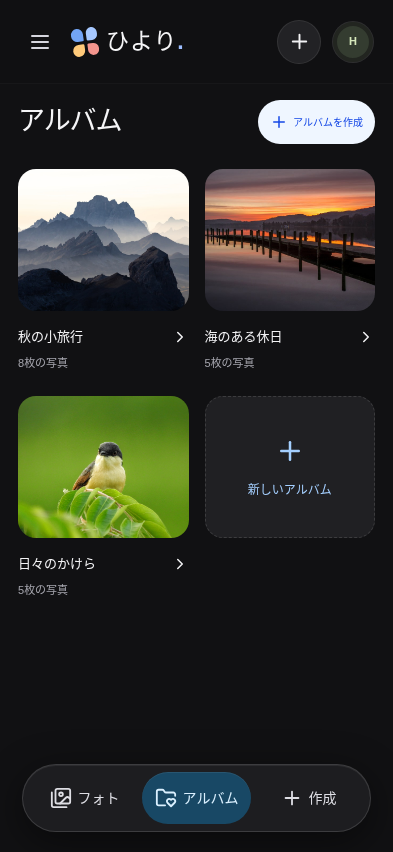
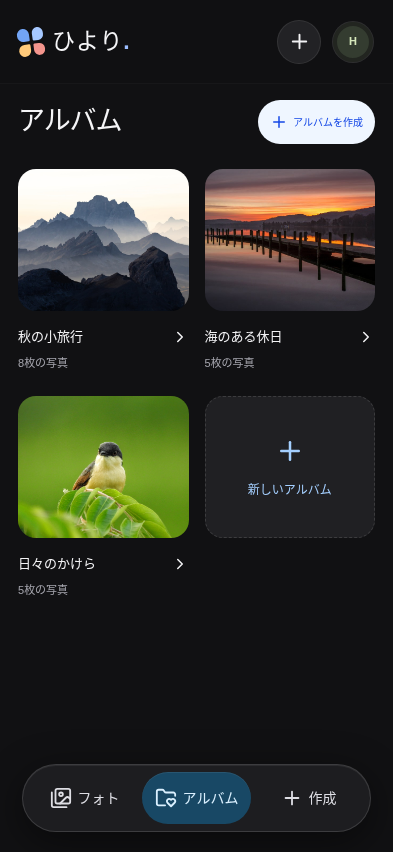
style: remove sidebar from the mobile dark preview

Changed region(s): [[0.0305, 0.0305, 0.458, 0.0915]]

diff --git a/apps/frontend/src/App.tsx b/apps/frontend/src/App.tsx
@@ -724,15 +724,17 @@ function PhotoApp({
             </span>
           </div>
         )}
-        <button
-          className="mobile-toggle"
-          aria-label="メニュー"
-          aria-expanded={mobileMenu}
-          aria-controls="library-menu"
-          onClick={() => setMobileMenu(!mobileMenu)}
-        >
-          <Menu />
-        </button>
+        {!designPreview && (
+          <button
+            className="mobile-toggle"
+            aria-label="メニュー"
+            aria-expanded={mobileMenu}
+            aria-controls="library-menu"
+            onClick={() => setMobileMenu(!mobileMenu)}
+          >
+            <Menu />
+          </button>
+        )}
         <NavLink to="/" className="brand">
           <span className="brand-icon">
             <span />
@@ -772,65 +774,71 @@ function PhotoApp({
           </button>
         </div>
       </header>
-      {mobileMenu && (
+      {!designPreview && mobileMenu && (
         <button
           className="mobile-menu-backdrop"
           aria-label="メニューを閉じる"
           onClick={() => setMobileMenu(false)}
         />
       )}
-      <aside
-        id="library-menu"
-        className={`sidebar ${mobileMenu ? 'mobile-open' : ''}`}
-      >
-        <Button className="upload-button" onClick={() => setUpload(true)}>
-          <Plus size={22} />
-          写真を追加
-        </Button>
-        <nav>
-          {navigation.map(({ to, label, icon: Icon }) => (
+      {!designPreview && (
+        <aside
+          id="library-menu"
+          className={`sidebar ${mobileMenu ? 'mobile-open' : ''}`}
+        >
+          <Button className="upload-button" onClick={() => setUpload(true)}>
+            <Plus size={22} />
+            写真を追加
+          </Button>
+          <nav>
+            {navigation.map(({ to, label, icon: Icon }) => (
+              <NavLink
+                key={to}
+                to={to}
+                end
+                className={({ isActive }) =>
+                  `nav-link ${isActive ? 'active' : ''}`
+                }
+              >
+                <Icon size={21} />
+                <span>{label}</span>
+                {to === '/' && (
+                  <span className="nav-count">{active.length}</span>
+                )}
+              </NavLink>
+            ))}
+            <div className="nav-separator" />
             <NavLink
-              key={to}
-              to={to}
-              end
+              to="/trash"
               className={({ isActive }) =>
                 `nav-link ${isActive ? 'active' : ''}`
               }
             >
-              <Icon size={21} />
-              <span>{label}</span>
-              {to === '/' && <span className="nav-count">{active.length}</span>}
+              <Trash2 size={21} />
+              <span>ゴミ箱</span>
             </NavLink>
-          ))}
-          <div className="nav-separator" />
-          <NavLink
-            to="/trash"
-            className={({ isActive }) => `nav-link ${isActive ? 'active' : ''}`}
-          >
-            <Trash2 size={21} />
-            <span>ゴミ箱</span>
-          </NavLink>
-        </nav>
-        <div className="sidebar-bottom">
-          <div className="space-card">
-            <div className="space-icon">
-              <Cloud size={21} />
+          </nav>
+          <div className="sidebar-bottom">
+            <div className="space-card">
+              <div className="space-icon">
+                <Cloud size={21} />
+              </div>
+              <div>
+                <strong>ふたりのライブラリ</strong>
+                <span>思い出を、一緒に。</span>
+              </div>
+              <div className="small-avatars">
+                <span>H</span>
+                <span>M</span>
+              </div>
             </div>
-            <div>
-              <strong>ふたりのライブラリ</strong>
-              <span>思い出を、一緒に。</span>
-            </div>
-            <div className="small-avatars">
-              <span>H</span>
-              <span>M</span>
+            <div className="prototype-note">
+              <span />
+              デザインプレビュー
             </div>
           </div>
-          <div className="prototype-note">
-            <span />
-            デザインプレビュー
-          </div>
-        </div>
-      </aside>
+        </aside>
+      )}
       <main className="main-content">
         <Routes>
           <Route path="/" element={<GalleryRoute render={renderGallery} />} />

diff --git a/apps/frontend/src/mobile-dark.css b/apps/frontend/src/mobile-dark.css
@@ -49,6 +49,8 @@
   border-color: #ffffff12;
 }
 .mobile-dark .main-content {
+  margin-left: 0;
+  padding-bottom: calc(124px + env(safe-area-inset-bottom, 0px));
   background: #111113;
   border-radius: 0;
 }
@@ -175,11 +177,60 @@ body:has(.mobile-dark) .dialog-title {
 body:has(.mobile-dark) .dialog-description {
   color: #b6b6c0;
 }
+.mobile-dark .mobile-bottom-nav {
+  display: flex;
+  position: fixed;
+  z-index: 35;
+  max-width: 380px;
+  margin-inline: auto;
+  justify-content: space-around;
+  bottom: calc(20px + env(safe-area-inset-bottom, 0px));
+  left: 22px;
+  right: 22px;
+  border: 1px solid #ffffff24;
+  border-radius: 40px;
+  padding: 7px;
+  gap: 3px;
+  background: #33333759;
+  backdrop-filter: blur(18px) saturate(1.5);
+  box-shadow:
+    0 10px 40px #0007,
+    inset 0 1px 0 #ffffff12;
+}
+.mobile-dark .mobile-nav-link {
+  display: flex;
+  align-items: center;
+  justify-content: center;
+  flex: 1;
+  flex-direction: row;
+  gap: 6px;
+  min-width: 0;
+  min-height: 52px;
+  border-radius: 30px;
+  color: #dedee4;
+  font-size: 14px;
+}
+.mobile-dark .mobile-nav-icon {
+  display: grid;
+  place-items: center;
+  width: auto;
+  height: auto;
+  background: none;
+}
+.mobile-dark .mobile-nav-link.active {
+  background: #18577dc0;
+  color: #daf0ff;
+  box-shadow: inset 0 1px 0 #ffffff12;
+}
+.mobile-dark .mobile-nav-link.active .mobile-nav-icon {
+  background: none;
+}
+
 @media (max-width: 760px) {
   .mobile-dark .topbar {
     min-height: 84px;
     padding: calc(12px + env(safe-area-inset-top, 0px)) 18px 12px;
-    grid-template-columns: 44px 1fr 44px 44px;
+    grid-template-columns: 1fr 44px 44px;
     grid-template-rows: 48px;
     gap: 10px;
   }
@@ -238,42 +289,6 @@ body:has(.mobile-dark) .dialog-description {
     right: 9px;
     bottom: 9px;
   }
-  .mobile-dark .mobile-bottom-nav {
-    bottom: calc(20px + env(safe-area-inset-bottom, 0px));
-    left: 22px;
-    right: 22px;
-    border: 1px solid #ffffff24;
-    border-radius: 40px;
-    padding: 7px;
-    gap: 3px;
-    background: #33333759;
-    backdrop-filter: blur(18px) saturate(1.5);
-    box-shadow:
-      0 10px 40px #0007,
-      inset 0 1px 0 #ffffff12;
-  }
-  .mobile-dark .mobile-nav-link {
-    flex-direction: row;
-    gap: 6px;
-    min-width: 0;
-    min-height: 52px;
-    border-radius: 30px;
-    color: #dedee4;
-    font-size: 14px;
-  }
-  .mobile-dark .mobile-nav-icon {
-    width: auto;
-    height: auto;
-    background: none;
-  }
-  .mobile-dark .mobile-nav-link.active {
-    background: #18577dc0;
-    color: #daf0ff;
-    box-shadow: inset 0 1px 0 #ffffff12;
-  }
-  .mobile-dark .mobile-nav-link.active .mobile-nav-icon {
-    background: none;
-  }
   .mobile-dark .sidebar {
     top: calc(84px + env(safe-area-inset-top, 0px));
   }
@@ -327,11 +342,6 @@ body:has(.mobile-dark) .dialog-description {
   font-size: 14px;
   white-space: nowrap;
   pointer-events: none;
-}
-@media (min-width: 761px) {
-  .mobile-dark .upload-period {
-    left: calc(50% + 125px);
-  }
 }
 .mobile-dark .photo-open {
   touch-action: pan-y;
@@ -455,4 +465,12 @@ body:has(.mobile-dark) .dialog-description {
 .mobile-dark.photo-selection-mode .photo-tile.selected .photo-open img {
   transform: scale(0.9);
   border-radius: 12px;
+}
+
+.mobile-dark .mobile-upload {
+  display: inline-flex;
+  margin-left: auto;
+}
+.mobile-dark .header-right {
+  margin-left: 0;
 }

diff --git a/apps/frontend/src/MobileDark.stories.tsx b/apps/frontend/src/MobileDark.stories.tsx
@@ -13,7 +13,7 @@ const meta = {
     docs: {
       description: {
         component:
-          '参考画像をもとにしたUIレビュー案。ヘッダーはスクロールに追従せず、フォト・アルバム・作成のナビは背景不透明度35%で浮かべます。フォトは見出し・枚数・表示切替・絞り込み・並び順を省き、日付の区切りがない写真グリッドを表示し、スクロール中は上端の写真のアップロード週（UTC）を半透明ラベルで示します。通常時は選択の丸を表示せず、500msの長押し（キーボードはShift+Enter）で複数選択に入ります。選択中は上部に選択数、下部にアルバム追加・お気に入り・ゴミ箱への移動を表示します。共通Appと既存APIを使用し、通常起動は従来のデザインを維持します。393×852でのレビューを推奨。',
+          '参考画像をもとにしたUIレビュー案。サイドバーとメニューボタンを表示せず、PCでも下部ナビから操作します。ヘッダーはスクロールに追従せず、フォト・アルバム・作成のナビは背景不透明度35%で浮かべます。フォトは見出し・枚数・表示切替・絞り込み・並び順を省き、日付の区切りがない写真グリッドを表示し、スクロール中は上端の写真のアップロード週（UTC）を半透明ラベルで示します。通常時は選択の丸を表示せず、500msの長押し（キーボードはShift+Enter）で複数選択に入ります。選択中は上部に選択数、下部にアルバム追加・お気に入り・ゴミ箱への移動を表示します。共通Appと既存APIを使用し、通常起動は従来のデザインを維持します。393×852でのレビューを推奨。',
       },
     },
   },

diff --git a/apps/frontend/tests/mobile-dark.spec.ts b/apps/frontend/tests/mobile-dark.spec.ts
@@ -12,6 +12,10 @@ test('ダークUIをスマホで操作し、アルバム・作成・詳細を確
     page.getByRole('button', { name: '湖畔の朝を開く', exact: true }),
   ).toBeVisible();
   await expect(page.locator('.app-shell')).toHaveClass(/mobile-dark/);
+  await expect(page.locator('#library-menu')).toHaveCount(0);
+  await expect(
+    page.getByRole('button', { name: 'メニュー', exact: true }),
+  ).toHaveCount(0);
   await expect(page.locator('.main-content > .page-heading')).toHaveCount(0);
   await expect(page.locator('.gallery-toolbar')).toHaveCount(0);
   await expect(page.locator('.date-heading')).toHaveCount(0);
@@ -89,6 +93,11 @@ test('ダークUIの空・失敗・読み込み状態とPC幅を表示する', a
   }
   await page.setViewportSize({ width: 1440, height: 1000 });
   await page.goto(story());
+  await expect(page.locator('#library-menu')).toHaveCount(0);
+  await expect(page.locator('.mobile-bottom-nav')).toBeVisible();
+  await expect(
+    page.getByRole('button', { name: '写真をアップロード', exact: true }),
+  ).toBeVisible();
   await expect(
     page.getByRole('button', { name: '湖畔の朝を開く', exact: true }),
   ).toBeVisible();

diff --git a/docs/mobile-dark-ui-proposal.md b/docs/mobile-dark-ui-proposal.md
@@ -10,7 +10,7 @@
 2. 下部のアルバムから一覧・中身を開く。作成から新しいアルバムを作る。
 3. 写真を開き、お気に入り、情報、アルバム所属、ダウンロード、削除を確認する。
 4. 上部の＋から既存の写真追加フローを開く。検索バーは最新mainの仕様に従い表示しない。
-5. メニューからお気に入り・ゴミ箱へ移動する。写真の長押しから複数選択へ入り、一括アルバム追加などを操作する。
+5. 写真の長押しから複数選択へ入り、一括アルバム追加・お気に入り・ゴミ箱への移動を操作する。
 
 ## 画面例
 
@@ -45,3 +45,7 @@
 選択中は上部を「×・選択数」のピルに置き換え、下部ナビの代わりに操作パネルを固定表示する。既存のアルバム追加・お気に入り・ゴミ箱への移動を使い、削除確認や失敗時の再試行は共通のダイアログで扱う。0枚まで解除しても選択モードは維持し、操作を無効にする。「×」で選択モードを終了する。保存・一括移動の成功、画面遷移でも終了する。キーボードでは写真にフォーカスしてShift+EnterまたはShift+Spaceで選択を開始できる。
 
 ![長押し後の複数選択モード](images/mobile-dark/selection.png)
+
+## サイドバーの撤去
+
+専用モックはサイドバーとそれを開くメニューボタンを描画しない。PCでも写真一覧の左側に空白を残さず、フォト・アルバム・作成の下部ナビとヘッダーの写真追加を表示する。サイドバーにあったお気に入り一覧・ゴミ箱一覧への直接リンクは今回の案では表示しない。通常アプリのサイドバーは変更しない。
